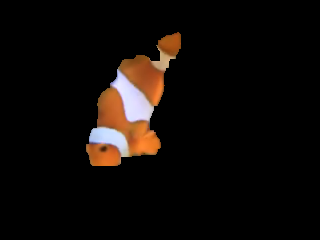
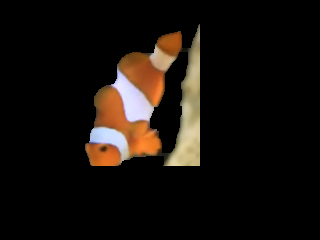
11.10

diff --git a/3.EM/3.3display/main.py b/3.EM/3.3display/main.py
@@ -1,6 +1,6 @@
 import os
 import tkinter as tk
-from tkinter import filedialog, messagebox
+from tkinter import filedialog, simpledialog, messagebox
 from tkinter import ttk
 from PIL import Image, ImageTk
 import cv2
@@ -15,6 +15,7 @@ import scipy.io
 import warnings
 from sklearn.exceptions import ConvergenceWarning
 import joblib  # 确保导入 joblib 模块
+
 
 # 设置中文字体，防止中文显示乱码
 plt.rcParams['font.sans-serif'] = ['SimHei']  # 使用SimHei字体
@@ -200,7 +201,6 @@ def select_file():
         current_image_path = file_path
         load_image(file_path)
 
-
 # 加载图像显示在界面上
 # 修改 load_image 函数以调整图片大小
 def load_image(image_path):
@@ -221,10 +221,10 @@ def generate_nemo_mask(img):
     rgb_img = cv2.cvtColor(img, cv2.COLOR_BGR2RGB)
     hsv_img = cv2.cvtColor(rgb_img, cv2.COLOR_RGB2HSV)
 
-    light_orange = (5, 100, 120)
-    dark_orange = (20, 255, 255)
-    light_white = (35, 0, 160)
-    dark_light = (255, 160, 255)
+    light_orange = (5, 50, 80)
+    dark_orange = (30, 255, 250)
+    light_white = (0, 0, 160)
+    dark_light = (255, 65, 255)
 
     mask1 = cv2.inRange(hsv_img, light_orange, dark_orange)
     mask2 = cv2.inRange(hsv_img, light_white, dark_light)
@@ -248,6 +248,68 @@ def extract_fish_with_color_filter(image_path, save_path):
     # 保存处理结果
     cv2.imwrite(save_path, segmented_img)
 
+from sklearn.cluster import KMeans
+
+def extract_fish_with_Kmeans(image_path, save_path, k=3):
+    # 读取图像并转换为 RGB 格式
+    image = cv2.imread(image_path)
+    if image is None:
+        print(f"无法读取图像: {image_path}")
+        return
+
+    image_rgb = cv2.cvtColor(image, cv2.COLOR_BGR2RGB)
+    pixel_values = image_rgb.reshape((-1, 3))  # 将图像重塑为 (像素数, 3) 的数组
+    pixel_values = np.float32(pixel_values)  # 转换为 float32 类型
+
+    # 使用 KMeans 进行聚类
+    kmeans = KMeans(n_clusters=k, n_init='auto', random_state=42)
+    labels = kmeans.fit_predict(pixel_values)
+    segmented_image = kmeans.cluster_centers_[labels]  # 使用聚类中心值替换像素值
+    segmented_image = segmented_image.reshape(image_rgb.shape).astype(np.uint8)
+
+    # 生成初步掩码，假设鱼的颜色亮度高，结合 Otsu 二值化和颜色过滤
+    gray_segmented = cv2.cvtColor(segmented_image, cv2.COLOR_RGB2GRAY)
+    _, otsu_mask = cv2.threshold(gray_segmented, 0, 255, cv2.THRESH_BINARY + cv2.THRESH_OTSU)
+
+    # 定义橙色和白色的 HSV 范围
+    hsv_image = cv2.cvtColor(segmented_image, cv2.COLOR_RGB2HSV)
+    lower_orange = np.array([5, 50, 80])
+    upper_orange = np.array([30, 255, 250])
+    lower_white = np.array([0, 0, 160])
+    upper_white = np.array([255, 65, 255])
+
+    # 创建颜色掩码
+    mask_orange = cv2.inRange(hsv_image, lower_orange, upper_orange)
+    mask_white = cv2.inRange(hsv_image, lower_white, upper_white)
+    color_mask = cv2.bitwise_or(mask_orange, mask_white)
+
+    # 合并 Otsu 掩码和颜色掩码
+    initial_mask = cv2.bitwise_and(otsu_mask, color_mask)
+
+    # 形态学操作去除小块噪声
+    kernel = np.ones((5, 5), np.uint8)
+    initial_mask = cv2.morphologyEx(initial_mask, cv2.MORPH_CLOSE, kernel)
+    initial_mask = cv2.morphologyEx(initial_mask, cv2.MORPH_OPEN, kernel)
+
+    # 使用初步掩码和 GrabCut 进行进一步细化
+    mask = np.zeros(image.shape[:2], np.uint8)
+    mask[initial_mask == 255] = cv2.GC_PR_FGD
+    mask[initial_mask == 0] = cv2.GC_PR_BGD
+    bgd_model = np.zeros((1, 65), np.float64)
+    fgd_model = np.zeros((1, 65), np.float64)
+
+    # 使用 GrabCut 算法细化边界，增加迭代次数
+    cv2.grabCut(image, mask, None, bgd_model, fgd_model, 10, cv2.GC_INIT_WITH_MASK)
+    final_mask = np.where((mask == cv2.GC_FGD) | (mask == cv2.GC_PR_FGD), 255, 0).astype('uint8')
+
+    # 使用最终掩码提取鱼的区域
+    result = cv2.bitwise_and(image, image, mask=final_mask)
+
+    # 保存结果
+    cv2.imwrite(save_path, result)
+    print(f"分割结果已保存至: {save_path}")
+
+
 # 修改 confirm_grabcut 函数以支持新的算法选择
 def confirm_grabcut():
     try:
@@ -262,7 +324,7 @@ def confirm_grabcut():
             algorithm = algorithm_choice  # 如果是字符串，则直接使用
 
         # 确保选择了有效的抠图算法
-        if algorithm not in ["GrabCut", "Color Filter", "Counter Filter"]:
+        if algorithm not in ["GrabCut", "Color Filter", "Counter Filter","Kmeans"]:
             messagebox.showerror("错误", "无效的抠图算法选择！")
             return
 
@@ -274,6 +336,8 @@ def confirm_grabcut():
             save_dir = os.path.join(result_dir, "ColorFilter")
         elif algorithm == "Counter Filter":
             save_dir = os.path.join(result_dir, "CounterFilter")
+        elif algorithm == "Kmeans":
+            save_dir = os.path.join(result_dir, "Kmeans")
 
         # 创建保存目录（如果目录不存在则创建）
         os.makedirs(save_dir, exist_ok=True)
@@ -288,6 +352,8 @@ def confirm_grabcut():
             extract_fish_with_color_filter(current_image_path, save_path)
         elif algorithm == "Counter Filter":
             extract_fish_with_counter(current_image_path, save_path)
+        elif algorithm == "Kmeans":
+            extract_fish_with_Kmeans(current_image_path, save_path,k_value)
 
         # 更新显示处理后的图像
         load_image(save_path)
@@ -318,6 +384,8 @@ def confirm_segmentation():
                 save_dir = os.path.join("result", "ColorFilter")
             elif algorithm == "Counter Filter":
                 save_dir = os.path.join("result", "CounterFilter")
+            elif algorithm == "Kmeans":
+                save_dir = os.path.join("result", "Kmeans")
             else:
                 messagebox.showerror("错误", "无效的抠图算法选择！")
                 return
@@ -495,10 +563,19 @@ def visualize_gmm_training(data_type, parent_frame):
     except Exception as e:
         messagebox.showerror("训练失败", f"在训练过程中遇到问题：{str(e)}")
 
-# 更新抠图算法选择
+
+# 更新抠图算法选择并在选择 KMeans 时弹出 K 值选择框
 def update_algorithm_choice(event):
-    global algorithm_choice
+    global algorithm_choice, k_value
     algorithm_choice = algorithm_var.get()
+
+    if algorithm_choice == "Kmeans":
+        # 弹出一个对话框让用户输入 K 值，仅在选择 KMeans 时触发
+        k_value = simpledialog.askinteger("选择 K 值", "请输入聚类数 K（推荐2-5）:", minvalue=2, maxvalue=10)
+        if k_value is not None:
+            messagebox.showinfo("提示", f"K 值已设置为 {k_value}")
+        else:
+            messagebox.showwarning("警告", "K 值未设置")
 
 # 创建 GUI
 root = tk.Tk()
@@ -557,7 +634,7 @@ algorithm_label = ttk.Label(button_frame, text="选择抠图算法:", font=('Ari
 algorithm_label.grid(row=1, column=3, padx=10, pady=10, sticky="w")
 
 # 将 extract_fish_with_counter 加入选择列表
-algorithm_menu = ttk.Combobox(button_frame, textvariable=algorithm_var, values=["GrabCut", "Color Filter", "Counter Filter"], font=('Arial', 12), state="readonly")
+algorithm_menu = ttk.Combobox(button_frame, textvariable=algorithm_var, values=["GrabCut", "Color Filter", "Counter Filter", "Kmeans"], font=('Arial', 12), state="readonly")
 algorithm_menu.grid(row=1, column=4, padx=10, pady=10, columnspan=2, sticky="ew")
 algorithm_menu.bind("<<ComboboxSelected>>", update_algorithm_choice)
 
